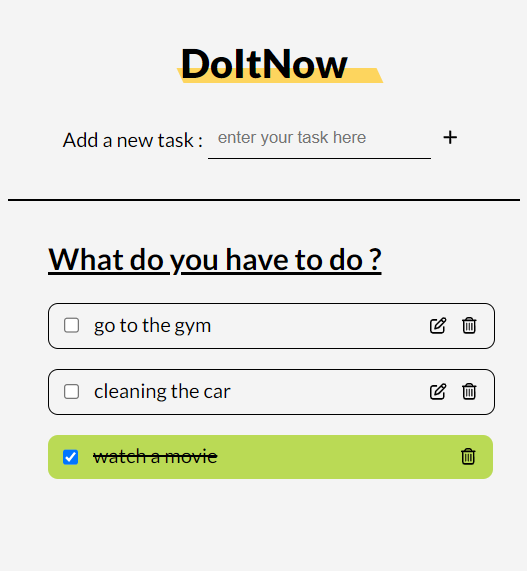
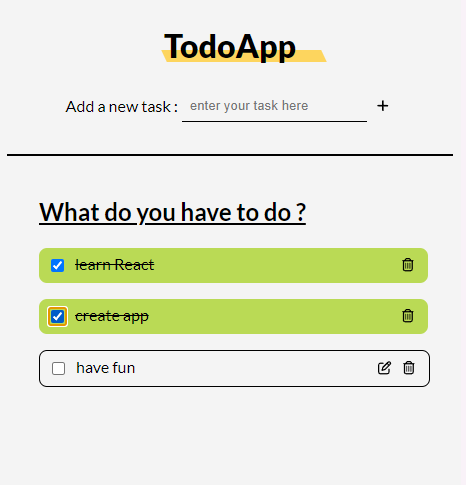
readme final

diff --git a/src/scripts/App.jsx b/src/scripts/App.jsx
@@ -40,7 +40,7 @@ export default function TodoList() {
         <TaskProvider value={{ tasks, addTask, updateTask, deleteTask, toggleComplete }}>
             <div>
                 <div className="header">
-                    <h1 className="title">DoItNow</h1>
+                    <h1 className="title">TodoApp</h1>
                     <TaskForm />                        
                 </div>
                 <div className="tasklist">
